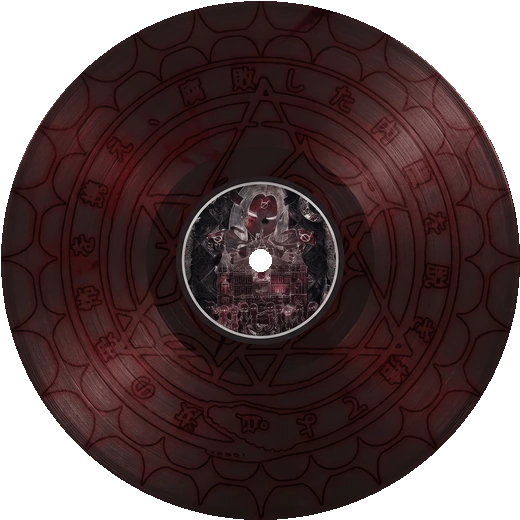
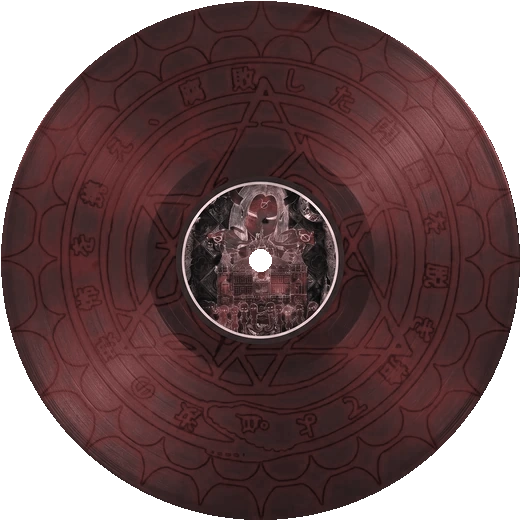
La platine de « C » passe au noir sanguine, et le disque prend sa variante etain
Le corps de la platine etait creme : a cote d une pochette noire et rouge
il tirait tout l ecran a lui. Bois noir a reflet sanguine, plateau un peu
plus clair pour que le disque s y detache, bras argente, bouton rouge de
la pochette. Comme pour Jane, la peinture ne vaut que pour cet album.

diff --git a/style.css b/style.css
@@ -1310,6 +1310,37 @@ body.alb-crypt .sleeve{filter:contrast(1.04)}
    que l image d origine. On ne garde que son ombre portee. */
 body.alb-crypt .disc{filter:drop-shadow(0 6px 10px rgba(20,18,15,.45))}
 
+/* ---- la platine : noire a reflet sanguine, comme la pochette ----
+   Le blanc creme d origine tranchait avec l album ; ici le bois est noir,
+   le metal du bras reste argente et le bouton prend le rouge de la
+   pochette. Aucun autre album n est touche. */
+body.alb-crypt .deck-plinth{
+  background:linear-gradient(168deg,#170a0c 0%,#0a0405 48%,#030101 100%);
+  box-shadow:
+    0 30px 46px rgba(0,0,0,.6),
+    0 6px 12px rgba(0,0,0,.44),
+    inset 0 1px 0 rgba(255,255,255,.08);
+}
+body.alb-crypt .deck-face{
+  background:linear-gradient(178deg,#221618 0%,#150d0f 40%,#1b1214 70%,#0b0607 100%);
+  box-shadow:inset 0 1px 0 rgba(255,255,255,.09),inset 0 -2px 8px rgba(0,0,0,.62);
+}
+body.alb-crypt .deck-face::after{display:none}
+/* le plateau : un peu plus clair que le bois, pour que le disque s y pose */
+body.alb-crypt .platter::before{
+  background:radial-gradient(circle at 38% 30%,#332426 0%,#1c1315 46%,#0c0708 100%);
+  box-shadow:0 10px 20px rgba(0,0,0,.52),inset 0 0 0 1px rgba(226,186,188,.14);
+}
+body.alb-crypt .arm-tube{background:linear-gradient(180deg,#9d9694,#615a5c 52%,#342e30)}
+body.alb-crypt .arm-pivot{
+  background:radial-gradient(circle at 36% 30%,#a29a98,#605a5b 60%,#302b2c 100%);
+}
+body.alb-crypt .spindle{background:linear-gradient(180deg,#cdc6c5,#5c5657)}
+body.alb-crypt .deck-knob{
+  background:linear-gradient(180deg,#c04a56,#6d1722);
+  box-shadow:0 2px 4px rgba(0,0,0,.62),inset 0 1px 0 rgba(255,255,255,.35);
+}
+
 /* ---- pastilles : un rond sombre, cercle de sanguine ---- */
 body.alb-crypt .trk .bub,
 body.alb-crypt .alb-t-crypt .bub{

diff --git a/index.html b/index.html
@@ -13,7 +13,7 @@
 <meta property="og:image" content="assets/cover.jpg">
 <meta property="og:type" content="music.album">
 <meta name="twitter:card" content="summary_large_image">
-<link rel="stylesheet" href="style.css?v=67">
+<link rel="stylesheet" href="style.css?v=68">
 </head>
 <body>
 
@@ -2352,7 +2352,7 @@ var ALBUMS = [
      des pistes, fond de la page, fond du choix. Son climat lui appartient
      (alb-crypt) : retoucher celui d un autre album ne le touchera pas. */
   { title:'C', by:'Lucy Bedroque', theme:'crypt',
-    disc:'assets/disc4.webp?v=2', cover:'assets/cover4.jpg', thumb:'assets/alb4.jpg',
+    disc:'assets/disc4.webp?v=3', cover:'assets/cover4.jpg', thumb:'assets/alb4.jpg',
     art:'assets/trk4.jpg', artFill:true,
     start:0,                                  /* All Speakers Go To Heaven ouvre l album */
     tracks: A4 }
